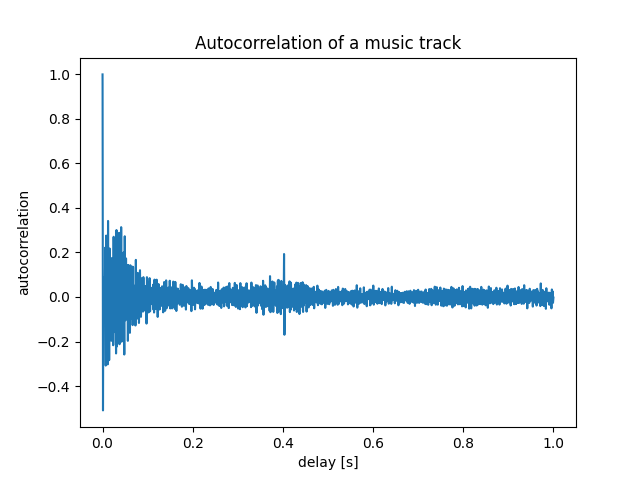
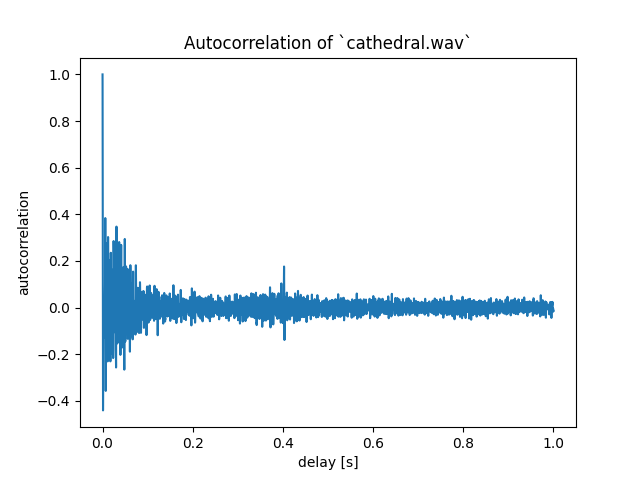
Update README with new plots and improve report

diff --git a/README.md b/README.md
@@ -25,28 +25,23 @@ Develop a simple python application to interactively:
 ```(bash)
 python demo_wav.py <.wav audio file>
 ```
-
-  * compute the auto correlation for the "Cathedral" track to solve the "inverse delay" problem
-  * estimate with minimal effort the program time
-  * explore different parallelization techniques (openmp, gpu offloading)
-
+  * compute the autocorrelation of an .wav audio track to solve the "inverse delay" problem
+  * measure the program time
 
 ### Naive implementation
-Computing autocorrelations by dot product of the signal with a shifted version of itself was the easiest solution. However, this approach is not scalable and it's inefficient from a memory access perspective.
-
-Parallelizing this task exploited the fact that two consecutive cross-correlations essentially use the same data, so they can be grouped in a GPU warp to use SIMD operations. Despite using the full capabilities of the GPU, the execution time for a 4 minute song was around 100 seconds.
+Computing autocorrelations by dot product of the signal with a shifted version of itself is the easiest solution. However, this approach is not feasible for signals with more than 1e05 samples. The poor performance is not a matter of language choice: compiled implementations will improve the execution time and parallel computing techniques can be applied to the problem, but at the end of the day it's still an inefficient algorithm.
 
 ### FFT
-The FFT can be used to compute efficiently the autocorrelation of a big signal as described in https://en.wikipedia.org/wiki/Autocorrelation#Efficient_computation
-Using already implemented algorithms I was able to reduce the runtime under 4 seconds, thus eliminating the need for gpu offloading (where the data transfer latency could outweight the throughput benefits)
-The two implementation gives similar results, so I favour the fastest one
-
+The FFT can be used to efficiently compute the autocorrelation of a big signal as described [at this wikipedia page](https://en.wikipedia.org/wiki/Autocorrelation#Efficient_computation).
+With already existing algorithms the processing time for a 4 minute track is about 1 second while the best naive implementation was doing 400 seconds. This proves the point that algorithm selection (and thus problem understanding) is the most relevant performance factor. **Optimizations like vectorization, multiprocessing and GPU computing must serve the programmer, not the other way around.**
 
 ## Comments on the effectiveness of the approach
 The autocorrelation approach works really well when applied to "Cathedral" because the track is dominated by a relatively clean guitar sound. The plot shows a strong response at around 400 ms so I'm inclined to think that the original recording was made with such delay effect.
 
 ![plot](./img/cathedral_auto_correlation.png)
 
-Other more interesting tracks such as "Run like hell" don't show any sign of delay. A possible explanation is that the delayed guitar is only a part of the song and it's mixed with drums, lyrics and other instruments. Possible solutions include:
+Other more interesting tracks such as "Run like hell" show minimal signs of delay. A possible explanation is that the delayed guitar is only a part of the song and it's mixed with drums, lyrics and other instruments. Possible solutions include:
   * find isolated guitar versions of the song
   * cut only relevant parts of the track (maybe mute the other parts) and repeat the experiment
+
+![plot](./img/run_like_hell_auto_correlation.png)
